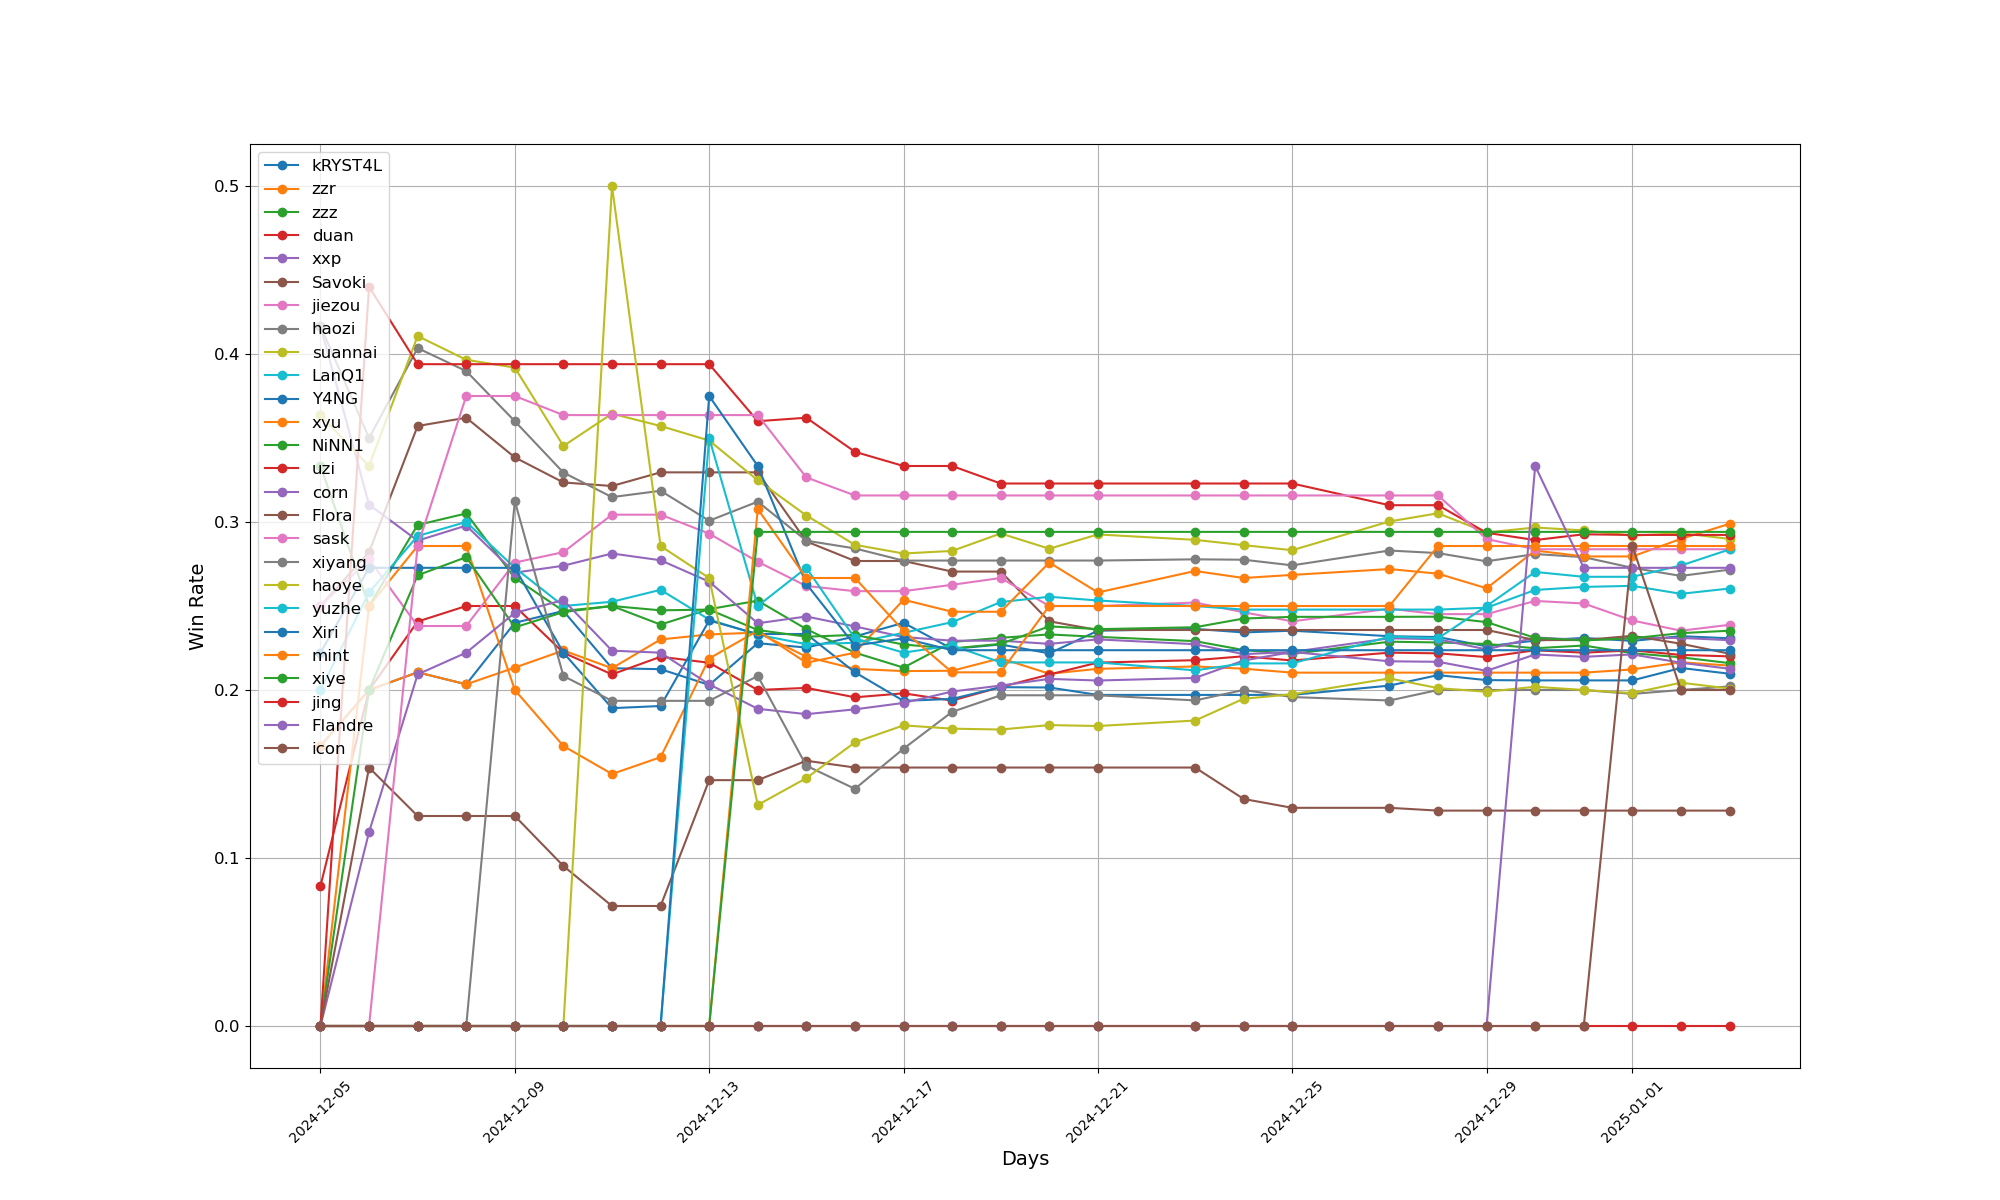
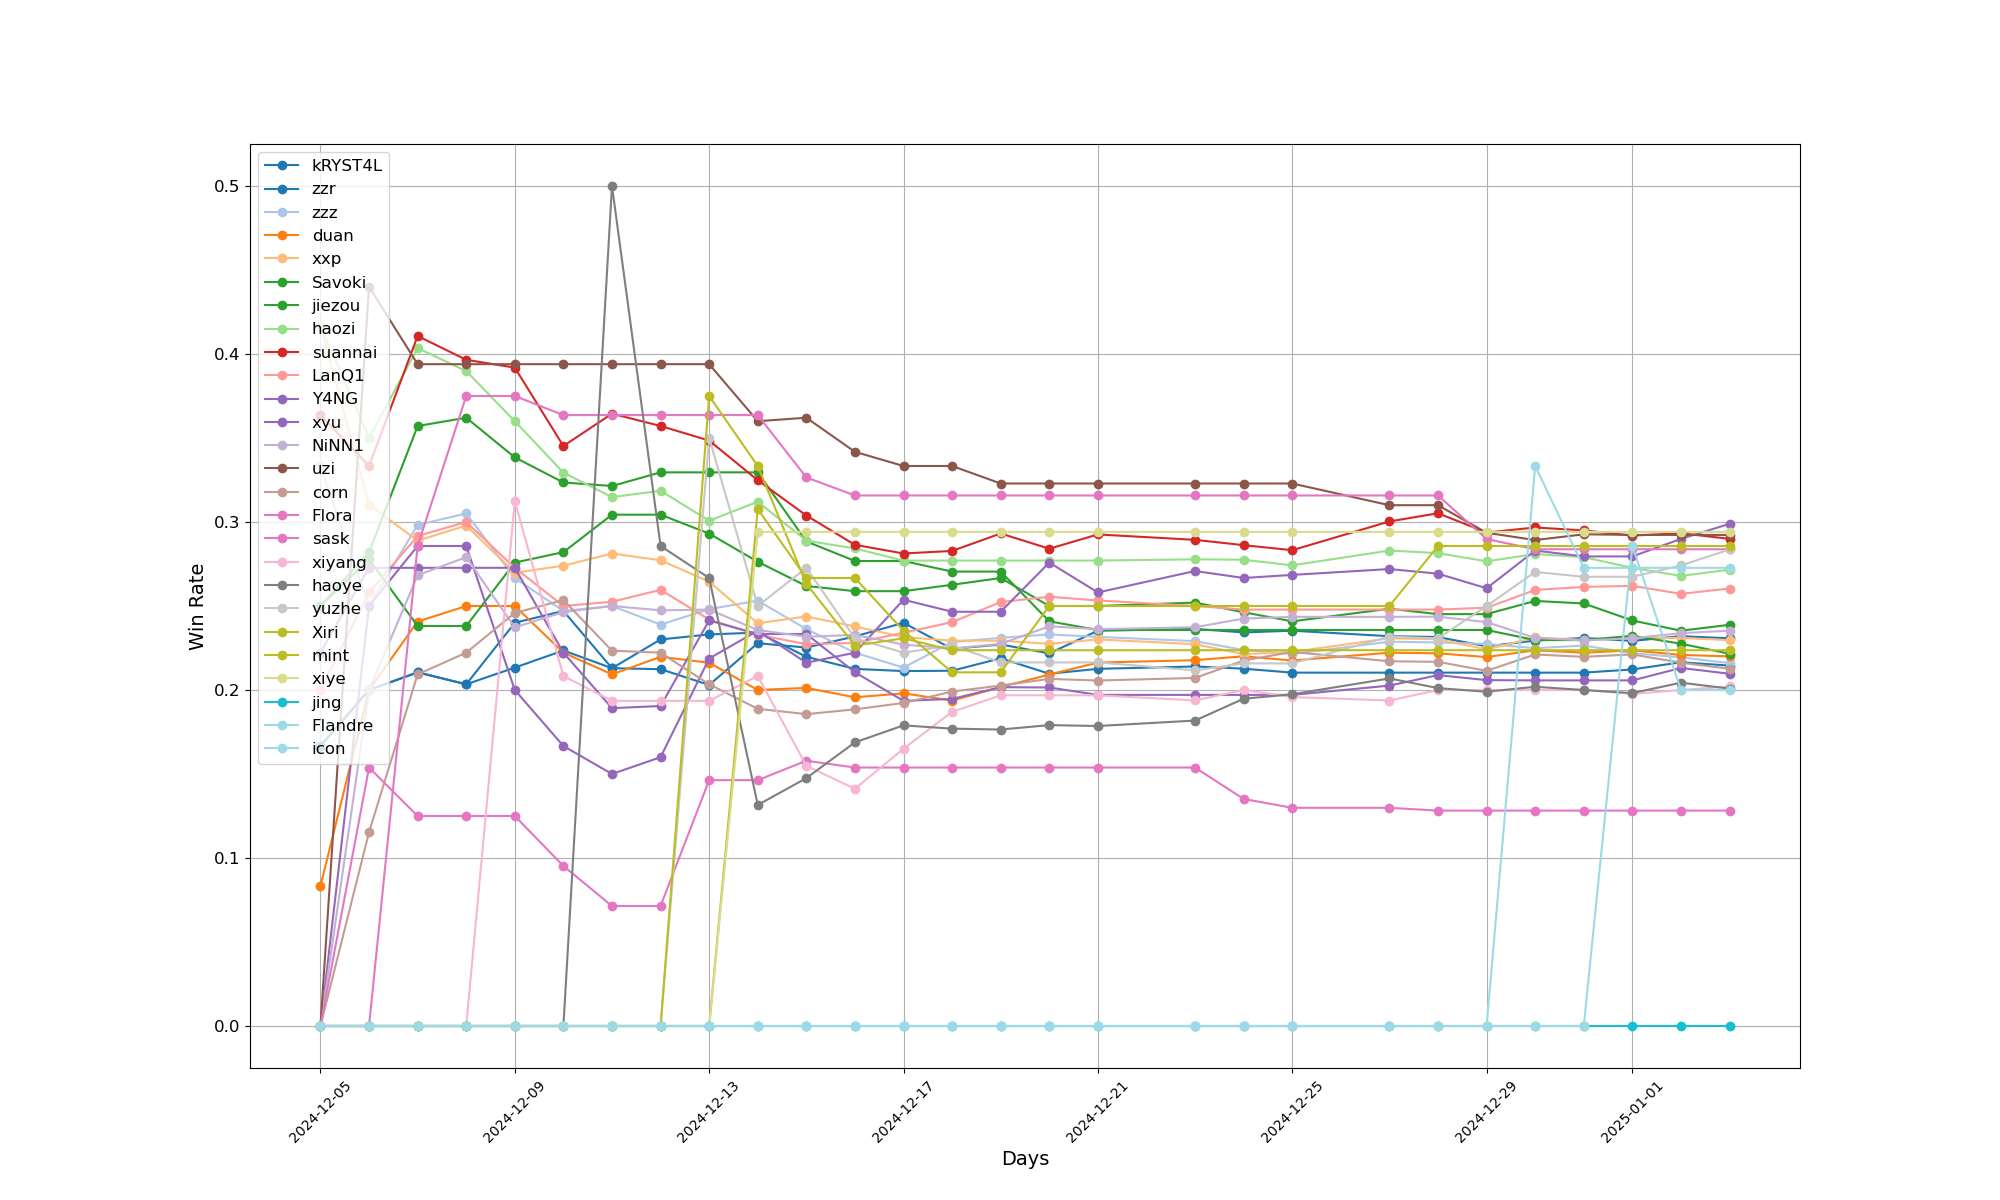
update winRateCurve

diff --git a/code/winRateCurve.py b/code/winRateCurve.py
@@ -1,6 +1,7 @@
 import pandas as pd
 import json
 import matplotlib.pyplot as plt
+import numpy as np
 
 roles_path = 'data/roles.json'
 with open(roles_path, 'r', encoding='utf-8') as roles_file:
@@ -80,16 +81,21 @@ file_path = 'data/data - Sheet1.csv'
 data = pd.read_csv(file_path)
 
 # 获取日期列表
-days = sorted(pd.to_datetime(data['time']).dt.date.unique())  # 确保日期按时间排序
-days
+# days = sorted(pd.to_datetime(data['time']).dt.date.unique())  # 确保日期按时间排序
+# days
 
 plt.figure(figsize=(20, 12))
 
 days = sorted(pd.to_datetime(data['time']).dt.date.unique())  # 确保日期按时间排序
 players = data.columns
-for player in players[2: -1]:
+
+# 创建唯一颜色映射
+num_lines = len(players[2: -1])
+colors = plt.cm.get_cmap('tab20', num_lines)  # 使用 'tab20' 调色盘
+
+for i, player in enumerate(players[2: -1]):
     win_rate, _, _ = calculate_win_rate_curve(player)
-    plt.plot(days, win_rate, marker='o', linestyle='-', label=player)
+    plt.plot(days, win_rate, marker='o', linestyle='-', label=player, color=colors(i))
 
 plt.xlabel('Days', fontsize=14)
 plt.ylabel('Win Rate', fontsize=14)
